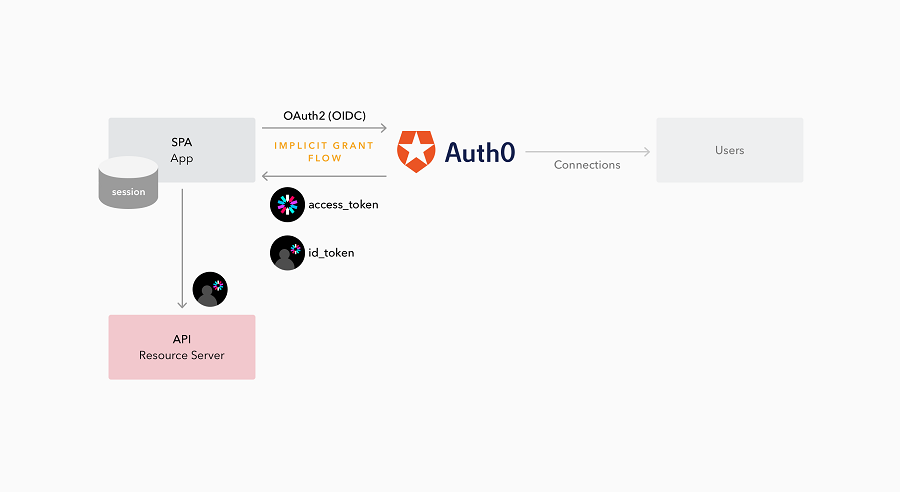
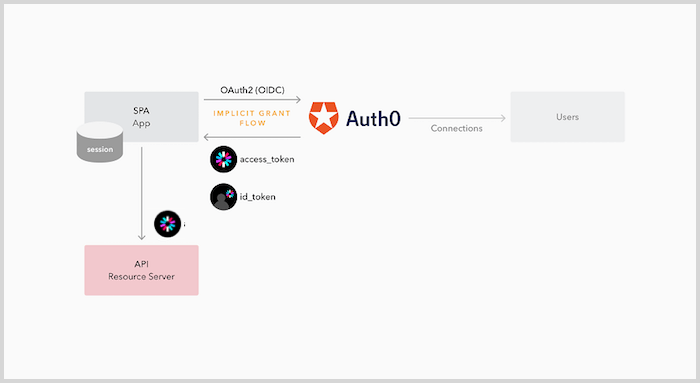
Edit spa-api diagram + content

diff --git a/articles/architecture-scenarios/application/spa-api.md b/articles/architecture-scenarios/application/spa-api.md
@@ -8,11 +8,11 @@ description: Explains the architecture scenario with a Single Page Web Applicati
 
 # SPA + API
 
-![](/media/articles/architecture-scenarios/spa-api.png)
+![Diagram for SPA + API scenario](/media/articles/architecture-scenarios/spa-api.png)
 
 In this scenario you have a Single Page Web Application “Client” which talks to an API (“Resource Server”). The application will use OpenID Connect with the Implicit Grant Flow to authenticate users with Auth0.
 
-When a user logs in, Auth0 will return to the application an `access_token` as well as an `id_token`. The `id_token` is used to securely call the API on behalf of the user. Alternatively the user profile can be obtained by calling the `/userinfo` endpoint in the Auth0 Authentication API with the `access_token`.
+When a user logs in, Auth0 will return to the application an `access_token` as well as an `id_token`. The `access_token` is used to securely call the API on behalf of the user, while the `id_token` contains user profile attributes represented (like the user's name, email, and so forth) in the form of _claims_. Alternatively the user profile can be obtained by calling the `/userinfo` endpoint in the Auth0 Authentication API with the `access_token`.
 
 The application will usually store the information about the user’s session (i.e. whether they are logged in, their tokens, user profile data, etc) inside some sort of storage such a Local Storage.
 
@@ -26,4 +26,3 @@ The following is a list of articles on this website which will help you to imple
 * [API Auth: Implicit Grant](/api-auth/grant/implicit)
 * [Auth0 access_token](/tokens/access_token)
 * [Auth0 id_token](/tokens/id_token)
- 
